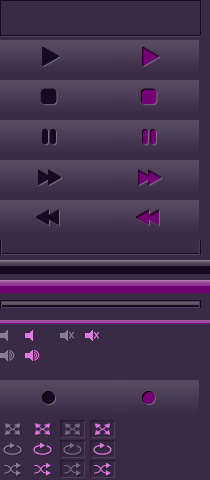
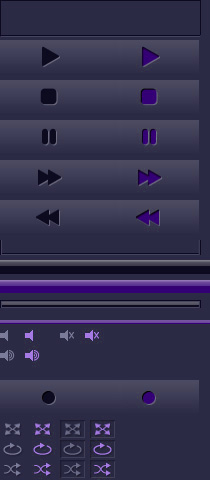
added JSONP for cross domain requests

diff --git a/player.html b/player.html
@@ -1,0 +1,62 @@
+<!DOCTYPE html>
+<html>
+<head>
+<meta charset=utf-8 />
+
+
+<title>Demo : jPlayer as an audio playlist player</title>
+<script type="text/javascript" src="http://ajax.googleapis.com/ajax/libs/jquery/1.6/jquery.min.js"></script>
+<meta http-equiv="Content-Type" content="text/html; charset=iso-8859-1" />
+
+
+
+</head>
+
+<link href="http://www.freeenergymedia.com/shared/PLAYER/player/skin/pink.flag/jplayer.pink.flag.css" rel="stylesheet" type="text/css" />
+<script type="text/javascript" src="http://www.freeenergymedia.com/shared/PLAYER/player/js/jquery.jplayer.min.js"></script>
+<script type="text/javascript" src="http://www.freeenergymedia.com/shared/PLAYER/player/js/jplayer.playlist.min.js"></script>
+<script type="text/javascript" src="http://www.freeenergymedia.com/shared/PLAYER/player/ajax.js"></script>
+
+<body>
+<div style="margin:0 auto; padding: 10% 0 0 0; width: 250px;">
+		<div id="jquery_jplayer_1" class="jp-jplayer"></div>
+
+		<div id="jp_container_1" class="jp-audio">
+			<div class="jp-type-playlist">
+			<div id="logo"><img src="startalk.png"/></div>
+				<div class="jp-gui jp-interface">
+					<ul class="jp-controls">
+						<li><a href="javascript:;" class="jp-previous" tabindex="1">previous</a></li>
+						<li><a href="javascript:;" class="jp-play" tabindex="1">play</a></li>
+						<li><a href="javascript:;" class="jp-pause" tabindex="1">pause</a></li>
+						<li><a href="javascript:;" class="jp-next" tabindex="1">next</a></li>
+						<li><a href="javascript:;" class="jp-stop" tabindex="1">stop</a></li>
+						
+					</ul>
+					<div class="jp-progress">
+						<div class="jp-seek-bar">
+							<div class="jp-play-bar"></div>
+
+						</div>
+					</div>
+					
+					<div class="jp-current-time"></div>
+					<div class="jp-duration"></div>
+					<ul class="jp-toggles">
+					
+					</ul>
+				</div>
+				<div class="jp-playlist">
+					<ul>
+						<li></li>
+					</ul>
+				</div>		
+				<div class="jp-no-solution">
+					<span>Update Required</span>
+					To play the media you will need to either update your browser to a recent version or update your <a href="http://get.adobe.com/flashplayer/" target="_blank">Flash plugin</a>.
+				</div>
+			</div>
+		</div>
+</body>
+
+</html>

diff --git a/skin/pink.flag/jplayer.pink.flag.css b/skin/pink.flag/jplayer.pink.flag.css
@@ -36,7 +36,10 @@ div.jp-video {
 div.jp-audio {
 	width:201px;
 	padding:20px;
-}
+	background-image:url(http://www.freeenergymedia.com/shared/PLAYER/player/skin/backgroundJplayer.png);
+	border: solid 3px gray;
+	border-radius: 15px;
+	}
 
 div.jp-video-270p {
 	width:480px;
@@ -78,7 +81,7 @@ div.jp-video-full div.jp-interface {
 div.jp-interface {
 	position: relative;
 	width:100%;
-	background-color:#3a2a45; /* Required for the full screen */
+	
 }
 
 
@@ -515,11 +518,10 @@ div.jp-type-playlist div.jp-playlist a {
 }
 
 div.jp-type-playlist div.jp-playlist a:hover {
-	color: #e892e9;
+	color: #AF8AFF;
 }
 
 div.jp-type-playlist div.jp-playlist li.jp-playlist-current {
-	background-color: #26102e;
 	margin: 0 -20px;
 	padding: 2px 20px;
 	border-top: 1px solid #26102e;
@@ -527,7 +529,7 @@ div.jp-type-playlist div.jp-playlist li.jp-playlist-current {
 }
 
 div.jp-type-playlist div.jp-playlist li.jp-playlist-current a{
-	color: #e892e9;
+	color: #AF8AFF;
 }
 
 div.jp-type-playlist div.jp-playlist a.jp-playlist-item-remove {
@@ -539,7 +541,7 @@ div.jp-type-playlist div.jp-playlist a.jp-playlist-item-remove {
 	color:#8C7A99;
 }
 div.jp-type-playlist div.jp-playlist a.jp-playlist-item-remove:hover {
-	color:#E892E9;
+	color:#AF8AFF;
 }
 
 div.jp-type-playlist div.jp-playlist span.jp-free-media {
@@ -554,7 +556,7 @@ div.jp-type-playlist div.jp-playlist span.jp-free-media a{
 }
 
 div.jp-type-playlist div.jp-playlist span.jp-free-media a:hover{
-	color:#E892E9;
+	color:#AF8AFF;
 }
 span.jp-artist {
 	font-size:.8em;

diff --git a/ajax.js b/ajax.js
@@ -1,0 +1,16 @@
+$(document).ready(function() {
+
+
+    $.getJSON("http://www.freeenergymedia.com/getxml2.php?callback=?", {},function (json) 
+	{
+      
+        new jPlayerPlaylist({
+            jPlayer: "#jquery_jplayer_1",
+            cssSelectorAncestor: "#jp_container_1"
+        }, json, {
+            swfPath: "js",
+            supplied: "mp3",
+            wmode: "window"
+        });
+    })
+});

diff --git a/getxmlforplayer.php b/getxmlforplayer.php
@@ -1,7 +1,7 @@
 <?php
 $c = file_get_contents('http://rss.sonibyte.com/rssfeed/56.xml');
 preg_match_all('/enclosure url="(.*)" length/', $c, $out, PREG_PATTERN_ORDER);
-preg_match_all("|<[title]+>StarTalk:(.*)</[title]+>|U", $c, $titles, PREG_PATTERN_ORDER);
+preg_match_all('"|<[title]+>StarTalk:(.*)</[title]+>|U"length/', $c, $titles, PREG_PATTERN_ORDER);
 if(sizeof($out[1]) >= 3 && sizeof($titles[1]) >= 3) {
     echo '[';   
     $e = end($out[1]); $b = reset($titles[1]);   echo '{ title:"StarTalk:' . $b . '", mp3:"'.$e.'" },';
